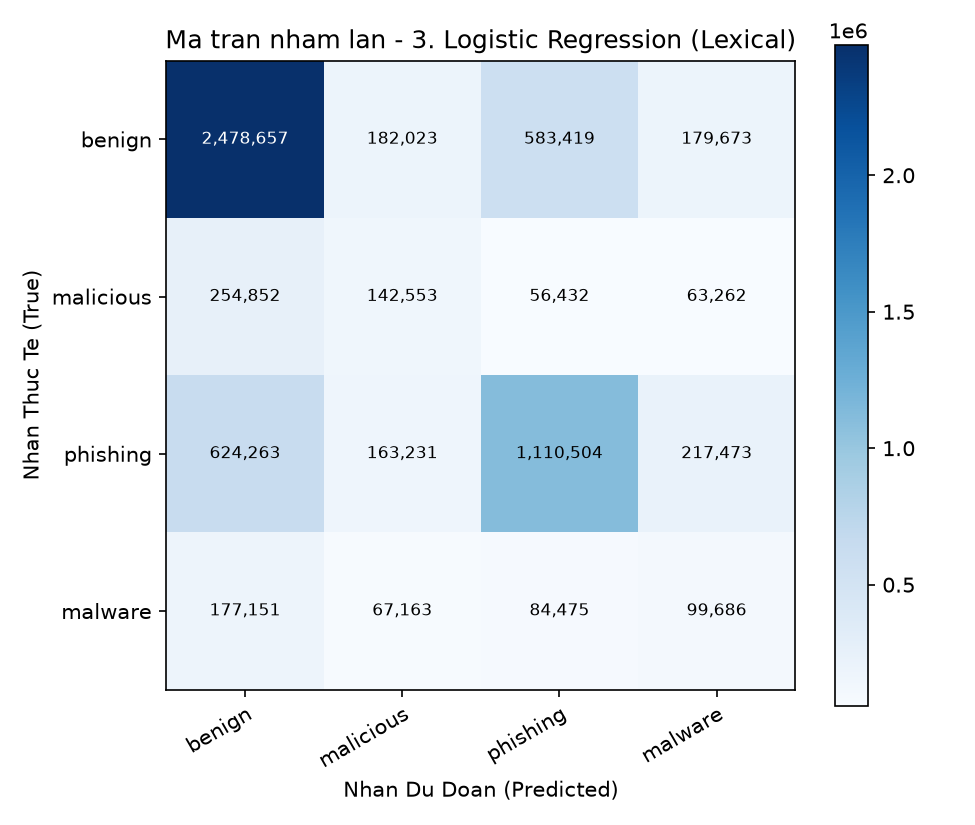
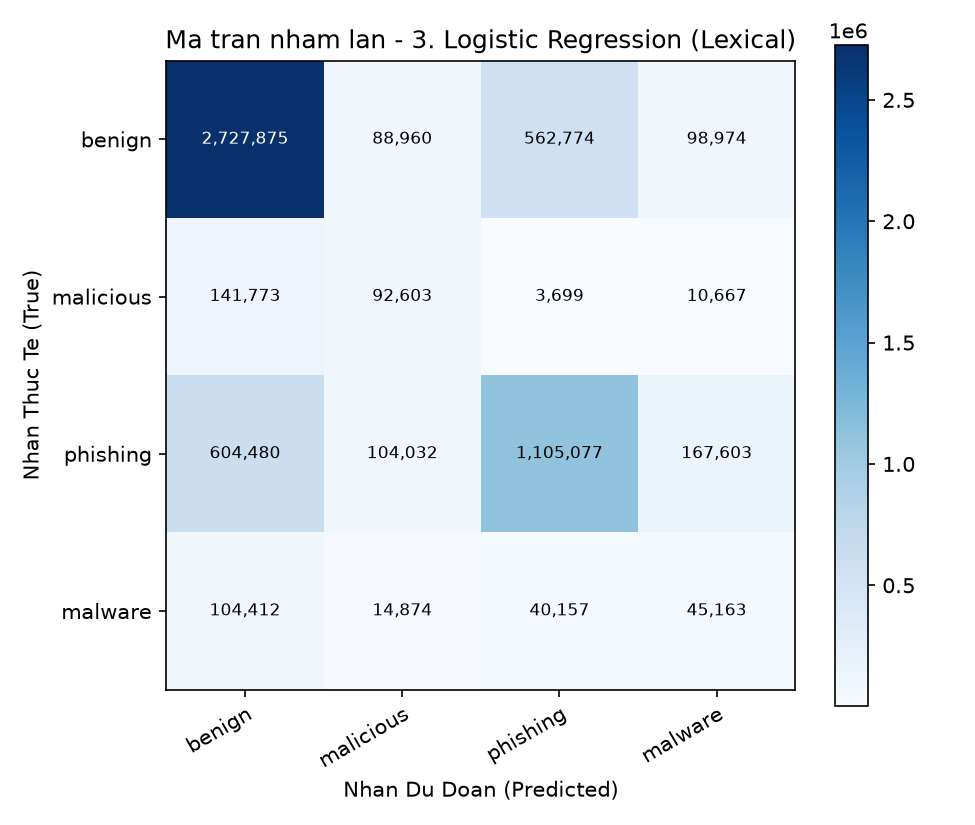
upda model

diff --git a/outputs/tables/models_comparison.md b/outputs/tables/models_comparison.md
@@ -1,7 +1,7 @@
 # Bang So Sanh Hieu Nang Cac Mo Hinh AIC211
 
-| Mo hinh | Accuracy | Precision (Weighted) | Recall (Weighted) | Weighted-F1 | Do tre (ms/URL) |
-|---|---|---|---|---|---|
-| **1. Linear SVM (Word + Char n-grams)** | 80.45% | 80.82% | 80.45% | 80.44% | 0.1414 ms |
-| **2. Logistic Regression (TF-IDF)** | 73.90% | 74.22% | 73.90% | 73.15% | 0.0240 ms |
-| **3. Logistic Regression (Lexical)** | 59.08% | 59.99% | 59.08% | 59.41% | 0.0629 ms |
+| Mo hinh | Accuracy (CI 95%) | Phat hien de doa | Bao nham benign | Precision (Weighted) | Recall (Weighted) | Weighted-F1 | Do tre (ms/URL) |
+|---|---|---|---|---|---|---|---|
+| **1. Linear SVM (Word + Char n-grams)** | 87.48% (87.45–87.50%) | 84.75% | 8.09% | 87.73% | 87.48% | 87.51% | 0.1512 ms |
+| **2. Logistic Regression (TF-IDF)** | 78.75% (78.71–78.78%) | 74.09% | 7.83% | 80.90% | 78.75% | 78.75% | 0.0237 ms |
+| **3. Logistic Regression (Lexical)** | 67.15% (67.11–67.19%) | 65.06% | 21.58% | 68.26% | 67.15% | 67.54% | 0.0613 ms |
